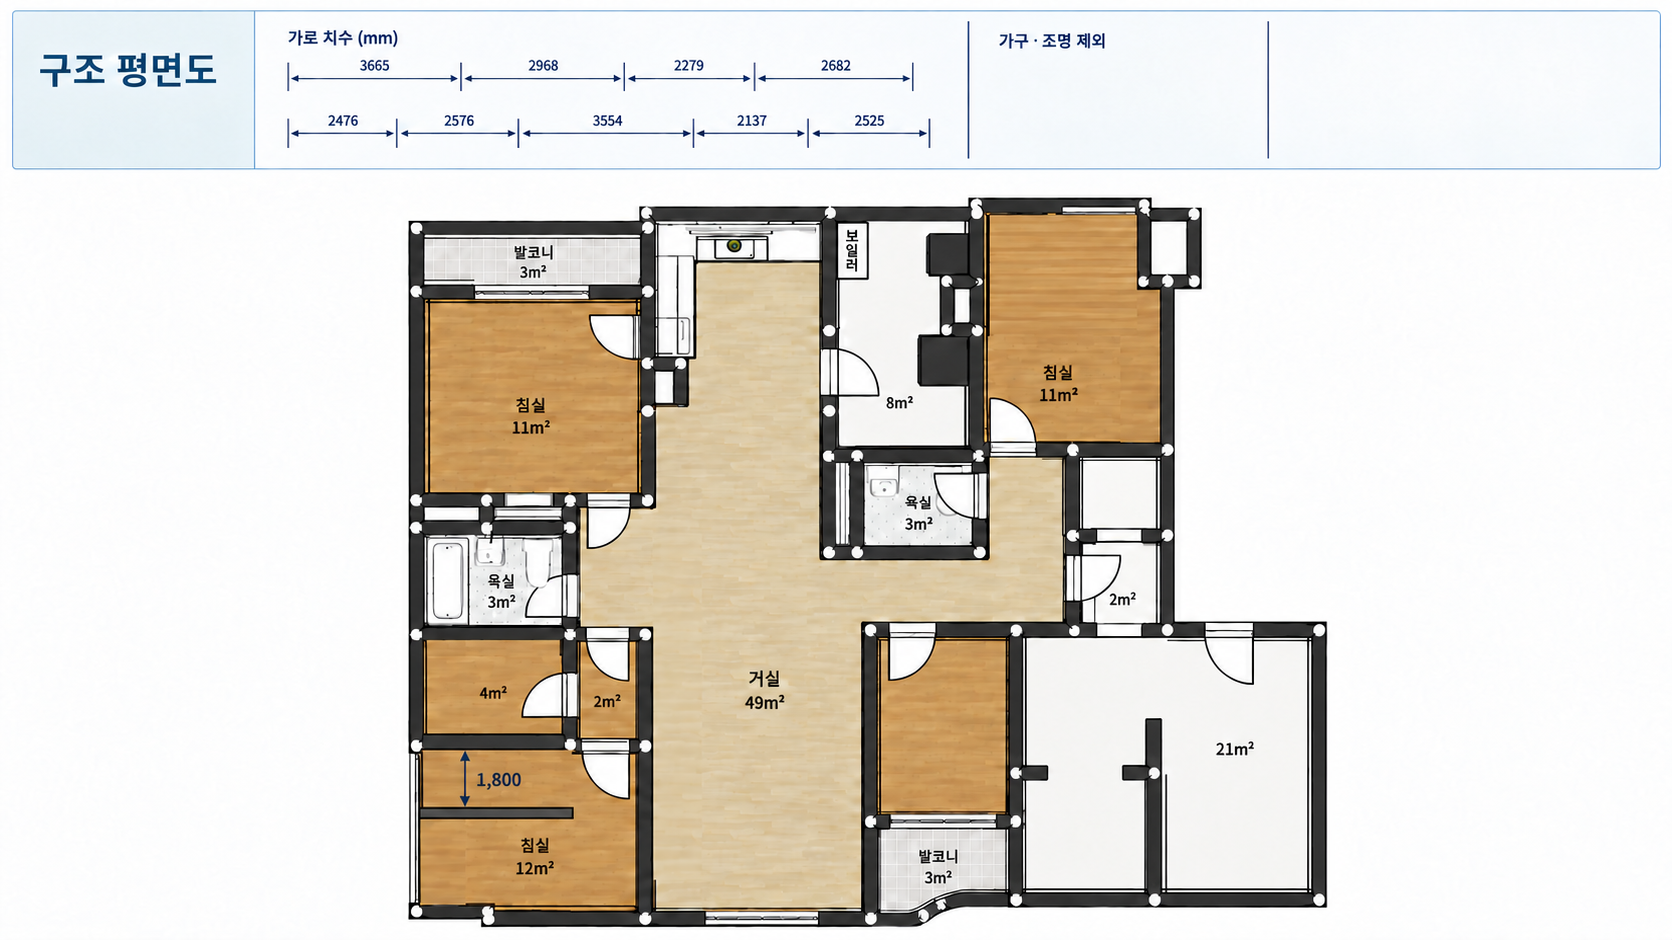
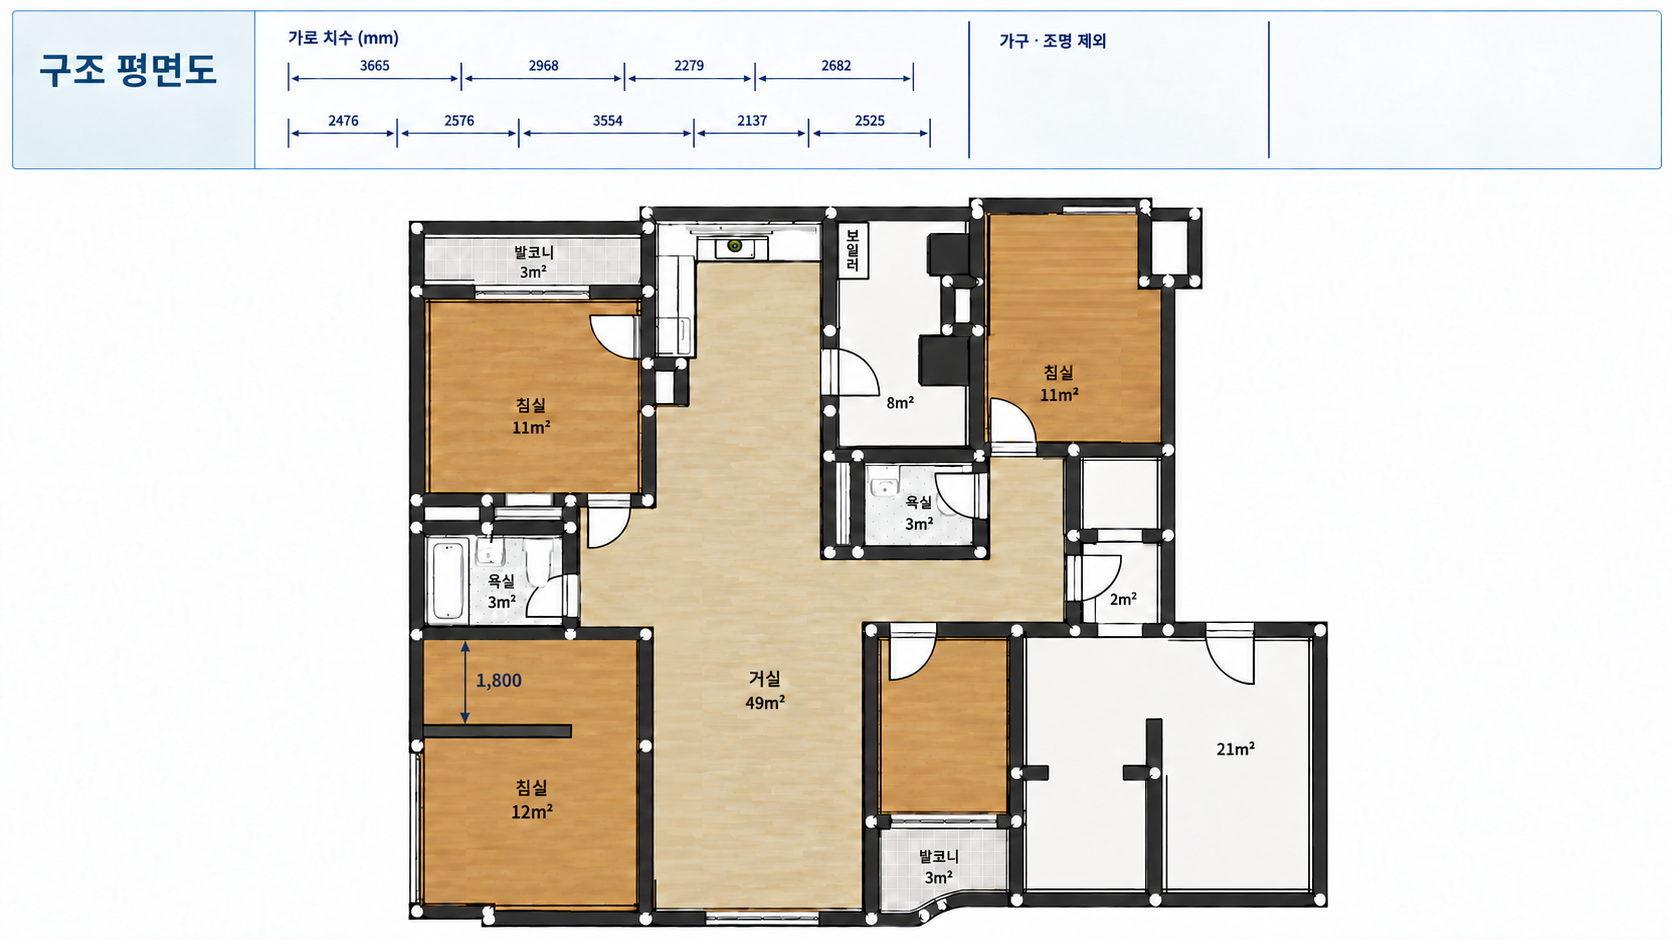
fix: simplify left bedroom partition

diff --git a/apps/web/src/ProjectReferences.tsx b/apps/web/src/ProjectReferences.tsx
@@ -18,7 +18,7 @@ type ReferenceTab = "plans" | "concepts" | "brief";
 const asset = (path: string): string => `${import.meta.env.BASE_URL}project-assets/${path}`;
 const floorPlans = [
   { src: asset("plans/floorplan-final.png"), alt: "한신무학 아파트 원래 평면도", label: "원래 평면도", caption: "변경 전 공간 구성과 주요 외곽 치수를 확인하는 기준 도면", badge: "원본 기준" },
-  { src: asset("plans/floorplan-structure-boiler-partition-1800.png"), alt: "왼쪽 침실에 1,800mm 가벽을 표시한 구조 평면도", label: "구조 평면도", caption: "가구·조명을 비우고 왼쪽 침실 상단에서 1,800mm 지점의 가벽·안쪽 여닫이문·주방 옆 보일러를 확인", badge: "구조 검토" },
+  { src: asset("plans/floorplan-structure-boiler-partition-1800.png"), alt: "왼쪽 침실의 4㎡·2㎡ 구획을 철거하고 1,800mm 가벽만 표시한 구조 평면도", label: "구조 평면도", caption: "왼쪽 침실의 기존 4㎡·2㎡ 구획과 문을 철거하고, 통합된 공간 상단에서 1,800mm 지점에 가벽 하나만 설치", badge: "구조 검토" },
   { src: asset("plans/floorplan-lighting-inward-doors.png"), alt: "방문이 안쪽으로 열리고 간접조명과 매립등 위치가 표시된 조명 계획도", label: "조명 계획도", caption: "안쪽 여닫이문과 라인조명·매립등·간접등 위치 확인", badge: "조명 검토" },
   { src: asset("plans/floorplan-lighting-outlets-inward-doors.png"), alt: "방문이 안쪽으로 열리고 조명과 콘센트 제안 위치가 표시된 전기 계획도", label: "조명 + 콘센트", caption: "안쪽 여닫이문과 조명·권장 콘센트 위치를 함께 보는 전기 협의용 개념안", badge: "전기 협의" },
 ] as const;

diff --git a/apps/web/src/SpacePlanner.tsx b/apps/web/src/SpacePlanner.tsx
@@ -429,7 +429,7 @@ export function SpacePlannerView(): ReactNode {
                   </g>
                 </svg>
               </div>
-              <div className="planner-canvas-foot"><span><i className="legend-item" />가구 실크기</span><span><i className="legend-clearance" />선택 가구 통로</span><span><i className="legend-collision" />겹침</span><small>왼쪽 침실 1,800mm 가벽과 보일러가 반영된 구조 평면도를 기준으로 가구 배치를 검토합니다.</small></div>
+              <div className="planner-canvas-foot"><span><i className="legend-item" />가구 실크기</span><span><i className="legend-clearance" />선택 가구 통로</span><span><i className="legend-collision" />겹침</span><small>왼쪽 침실 구획 철거 후 1,800mm 가벽과 보일러가 반영된 구조 평면도를 기준으로 검토합니다.</small></div>
             </main>
 
             <aside className="planner-inspector">
